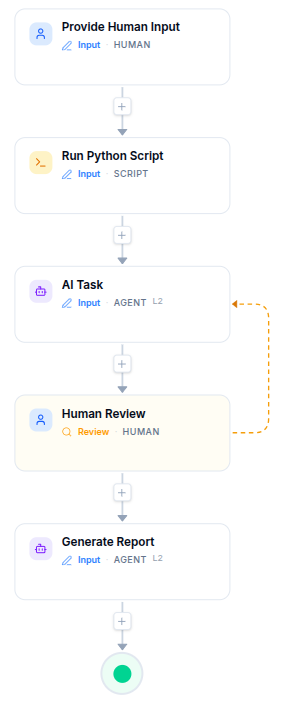
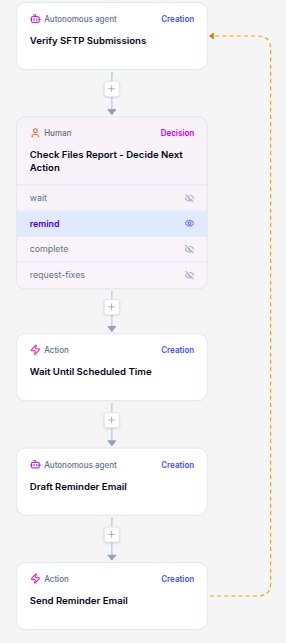
Merge pull request #882 from Appsilon/feat/update-website-and-readme-with-autonomy-levels
docs: update website and README with CM0-CM4 control mode taxonomy

Pull request: docs: update website and README with CM0-CM4 control mode taxonomy
## Summary
- Replace the outdated L1–L4 autonomy-level table in `docs/index.html`'s "How it works" section and in `README.md`'s "How It Works" section with the current CM0–CM4 Control Mode taxonomy (No agent, Assist, Cowork, Human review, Autonomous agent).
- Icons and colors match the workflow designer's "Add new step" popover (`workflow-diagram.tsx`) exactly: orange User for No agent, lime User+Bot for Assist, teal User+Bot for Cowork, indigo Bot+User for Human review, violet Bot for Autonomous agent.
- Simplified the website table to a single "What it means" column (was two split columns) and moved icons into their own narrow column so the Control Mode label text aligns consistently across rows.
- Removed the "Weekly Planning Session" card from the Community section on the website; the remaining "Join our Discord" card is restyled as a standalone centered card rather than half of a two-column grid.

## Test plan
- [x] Rendered `docs/index.html` locally with headless Chrome and visually verified the Control Mode table (icons, colors, alignment) and the single Discord community card, in both light and dark contexts.
- [x] Rendered the README's "How It Works" section through `marked` and visually verified the icon/color table on both light and dark backgrounds.
- [x] Confirmed no other page under `docs/` references the removed `community-grid` / Weekly Planning Session markup.

🤖 Generated with [Claude Code](https://claude.com/claude-code)
[…]

diff --git a/docs/index.html b/docs/index.html
@@ -36,6 +36,11 @@
       --script-dim: rgba(251,191,36,0.15);
       --agent: #7C3AED;
       --agent-dim: rgba(124,58,237,0.1);
+      --cm0: #F97316;
+      --cm1: #84CC16;
+      --cm2: #14B8A6;
+      --cm3: #6366F1;
+      --cm4: #8B5CF6;
     }
 
     html { scroll-behavior: smooth; }
@@ -152,8 +157,6 @@
     .btn--discord:hover { background: var(--discord-hover); }
     .btn--outline { background: transparent; color: var(--text-90); border-color: var(--text-30); }
     .btn--outline:hover { background: #F1F3F5; border-color: var(--text-50); }
-    .btn--meet { background: #1A73E8; color: #fff; border-color: transparent; }
-    .btn--meet:hover { background: #1557B0; }
 
     /* ── Section base ── */
     .section {
@@ -248,16 +251,21 @@
     .autonomy-table td {
       padding: 1rem;
       border-bottom: 1px solid var(--border);
-      vertical-align: top;
+      vertical-align: middle;
     }
     .autonomy-table tr:last-child td { border-bottom: none; }
+    .autonomy-table .cm-icon-cell {
+      width: 3.25rem;
+      padding-right: 0;
+    }
+    .autonomy-table .cm-icon { display: inline-flex; align-items: center; }
     .autonomy-table .level-name {
       font-weight: 600;
-      color: var(--accent);
+      color: var(--text-90);
       white-space: nowrap;
+      text-align: left;
     }
     .autonomy-table .level-desc { color: var(--text-80); }
-    .autonomy-table .level-human { color: var(--text-50); }
 
     .how-layout {
       display: grid;
@@ -310,12 +318,15 @@
         padding: 0.125rem 0;
         border-bottom: none;
       }
-      .autonomy-table .level-human::before {
-        content: "Human: ";
-        color: var(--text-40);
-        font-size: 0.75rem;
-        text-transform: uppercase;
-        letter-spacing: 0.05em;
+      .autonomy-table .cm-icon-cell {
+        display: inline-block;
+        width: auto;
+        vertical-align: middle;
+        margin-right: 0.5rem;
+      }
+      .autonomy-table .level-name {
+        display: inline-block;
+        vertical-align: middle;
       }
     }
 
@@ -364,51 +375,42 @@
     }
 
     /* ── Community ── */
-    .community-grid {
-      display: grid;
-      gap: 1.5rem;
-      margin-top: 2.5rem;
-    }
-    @media (min-width: 640px) {
-      .community-grid { grid-template-columns: 1fr 1fr; }
-    }
     .community-card {
-      padding: 2rem;
-      border-radius: 0.75rem;
-      background: var(--bg-card);
-      border: 1px solid var(--border);
+      margin-top: 2.5rem;
+      max-width: 34rem;
+      margin-left: auto;
+      margin-right: auto;
+      padding: 3rem 2.5rem;
+      border-radius: 1rem;
+      background: radial-gradient(circle at 50% 0%, rgba(88,101,242,0.09), rgba(88,101,242,0.02) 60%), var(--bg-card);
+      border: 1px solid rgba(88,101,242,0.25);
+      display: flex;
+      flex-direction: column;
+      align-items: center;
+      text-align: center;
+      transition: border-color 0.2s;
     }
+    .community-card:hover { border-color: rgba(88,101,242,0.45); }
     .community-card h3 {
-      font-size: 1.125rem;
-      font-weight: 600;
-      margin-bottom: 0.5rem;
+      font-size: 1.375rem;
+      font-weight: 700;
+      margin-bottom: 0.625rem;
     }
     .community-card p {
-      font-size: 0.875rem;
+      font-size: 0.9375rem;
       color: var(--text-60);
       line-height: 1.7;
-      margin-bottom: 1.25rem;
+      max-width: 28rem;
+      margin-bottom: 1.75rem;
     }
-    .community-card .schedule {
-      display: flex;
-      flex-wrap: wrap;
-      gap: 0.25rem 1rem;
-      margin-bottom: 1rem;
-      font-size: 0.875rem;
-      font-weight: 600;
-    }
-    .schedule .tz {
-      font-weight: 400;
-      color: var(--text-50);
-    }
-    .community-card--discord { border-color: rgba(88,101,242,0.3); }
-    .community-card--discord:hover { border-color: rgba(88,101,242,0.5); }
     .community-card-icon {
-      width: 2.25rem; height: 2.25rem;
-      margin-bottom: 1rem;
+      width: 3rem; height: 3rem;
+      margin-bottom: 1.25rem;
+      color: var(--discord);
+      background: rgba(88,101,242,0.1);
+      border-radius: 50%;
+      padding: 0.75rem;
     }
-    .community-card-icon--discord { color: var(--discord); }
-    .community-card-icon--session { color: var(--accent); }
     .community-byline {
       margin-top: 2rem;
       font-size: 0.8125rem;
@@ -629,37 +631,63 @@
           <h2 class="section-title">You define the process. The platform handles compliance.</h2>
           <p class="how-intro">
             For each step in a workflow, you decide who does the work - human, AI
-            agent, or both. Agents operate at one of four autonomy levels, and the
-            platform enforces the rules.
+            agent, or both. Every step is assigned a Control Mode, the same
+            picker your team uses in the workflow designer, and the platform
+            enforces the rules.
           </p>
           <table class="autonomy-table">
             <thead>
               <tr>
-                <th>Autonomy Level</th>
-                <th>What the agent does</th>
-                <th>Human involvement</th>
+                <th class="cm-icon-cell"></th>
+                <th>Control Mode</th>
+                <th>What it means</th>
               </tr>
             </thead>
             <tbody>
               <tr>
-                <td class="level-name">Observer</td>
-                <td class="level-desc">Watches and reports</td>
-                <td class="level-human">None - informational only</td>
+                <td class="cm-icon-cell">
+                  <span class="cm-icon">
+                    <svg width="20" height="20" viewBox="0 0 24 24"><g fill="none" stroke="var(--cm0)" stroke-width="1.9" stroke-linecap="round" stroke-linejoin="round"><path d="M20 21v-2a4 4 0 0 0-4-4H8a4 4 0 0 0-4 4v2"/><circle cx="12" cy="7" r="4"/></g></svg>
+                  </span>
+                </td>
+                <td class="level-name">No agent</td>
+                <td class="level-desc">Human, script, or automated action - no AI involved. Full manual control.</td>
               </tr>
               <tr>
-                <td class="level-name">Advisor</td>
-                <td class="level-desc">Suggests actions</td>
-                <td class="level-human">Human decides and acts</td>
+                <td class="cm-icon-cell">
+                  <span class="cm-icon">
+                    <svg width="46" height="21" viewBox="0 0 52 24"><g fill="none" stroke="var(--cm1)" stroke-width="1.9" stroke-linecap="round" stroke-linejoin="round"><path d="M20 21v-2a4 4 0 0 0-4-4H8a4 4 0 0 0-4 4v2"/><circle cx="12" cy="7" r="4"/></g><g transform="translate(28,0) scale(0.85)" fill="none" stroke="var(--cm1)" stroke-width="1.9" stroke-linecap="round" stroke-linejoin="round"><rect x="3" y="8" width="18" height="13" rx="2"/><circle cx="9" cy="14" r="1.25" fill="var(--cm1)" stroke="none"/><circle cx="15" cy="14" r="1.25" fill="var(--cm1)" stroke="none"/><line x1="9" y1="18" x2="15" y2="18"/><line x1="12" y1="8" x2="12" y2="4"/><circle cx="12" cy="3" r="1.25"/></g><g stroke="var(--cm1)" stroke-width="2.2" stroke-linecap="round" fill="none"><circle cx="45" cy="20" r="2.4"/><line x1="46.7" y1="21.7" x2="48.2" y2="23.2"/></g></svg>
+                  </span>
+                </td>
+                <td class="level-name">Assist</td>
+                <td class="level-desc">Human leads and does the work; AI reviews the result afterward.</td>
               </tr>
               <tr>
-                <td class="level-name">Drafter</td>
-                <td class="level-desc">Does work, submits for approval</td>
-                <td class="level-human">Human approves or sends back</td>
+                <td class="cm-icon-cell">
+                  <span class="cm-icon">
+                    <svg width="46" height="21" viewBox="0 0 52 24"><g fill="none" stroke="var(--cm2)" stroke-width="1.9" stroke-linecap="round" stroke-linejoin="round"><path d="M20 21v-2a4 4 0 0 0-4-4H8a4 4 0 0 0-4 4v2"/><circle cx="12" cy="7" r="4"/></g><g transform="translate(28,0)" fill="none" stroke="var(--cm2)" stroke-width="1.9" stroke-linecap="round" stroke-linejoin="round"><rect x="3" y="8" width="18" height="13" rx="2"/><circle cx="9" cy="14" r="1.25" fill="var(--cm2)" stroke="none"/><circle cx="15" cy="14" r="1.25" fill="var(--cm2)" stroke="none"/><line x1="9" y1="18" x2="15" y2="18"/><line x1="12" y1="8" x2="12" y2="4"/><circle cx="12" cy="3" r="1.25"/></g></svg>
+                  </span>
+                </td>
+                <td class="level-name">Cowork</td>
+                <td class="level-desc">Agent and human work together in real time, via chat or voice.</td>
               </tr>
               <tr>
-                <td class="level-name">Executor</td>
-                <td class="level-desc">Acts autonomously</td>
-                <td class="level-human">Human reviews after the fact</td>
+                <td class="cm-icon-cell">
+                  <span class="cm-icon">
+                    <svg width="46" height="21" viewBox="0 0 52 24"><g fill="none" stroke="var(--cm3)" stroke-width="1.9" stroke-linecap="round" stroke-linejoin="round"><rect x="3" y="8" width="18" height="13" rx="2"/><circle cx="9" cy="14" r="1.25" fill="var(--cm3)" stroke="none"/><circle cx="15" cy="14" r="1.25" fill="var(--cm3)" stroke="none"/><line x1="9" y1="18" x2="15" y2="18"/><line x1="12" y1="8" x2="12" y2="4"/><circle cx="12" cy="3" r="1.25"/></g><g transform="translate(28,0) scale(0.85)" fill="none" stroke="var(--cm3)" stroke-width="1.9" stroke-linecap="round" stroke-linejoin="round"><path d="M20 21v-2a4 4 0 0 0-4-4H8a4 4 0 0 0-4 4v2"/><circle cx="12" cy="7" r="4"/></g><g stroke="var(--cm3)" stroke-width="2.2" stroke-linecap="round" fill="none"><circle cx="45" cy="20" r="2.4"/><line x1="46.7" y1="21.7" x2="48.2" y2="23.2"/></g></svg>
+                  </span>
+                </td>
+                <td class="level-name">Human review</td>
+                <td class="level-desc">Agent completes the step; a human reviews and approves before the workflow proceeds.</td>
+              </tr>
+              <tr>
+                <td class="cm-icon-cell">
+                  <span class="cm-icon">
+                    <svg width="20" height="20" viewBox="0 0 24 24"><g fill="none" stroke="var(--cm4)" stroke-width="1.9" stroke-linecap="round" stroke-linejoin="round"><rect x="3" y="8" width="18" height="13" rx="2"/><circle cx="9" cy="14" r="1.25" fill="var(--cm4)" stroke="none"/><circle cx="15" cy="14" r="1.25" fill="var(--cm4)" stroke="none"/><line x1="9" y1="18" x2="15" y2="18"/><line x1="12" y1="8" x2="12" y2="4"/><circle cx="12" cy="3" r="1.25"/></g></svg>
+                  </span>
+                </td>
+                <td class="level-name">Autonomous agent</td>
+                <td class="level-desc">Agent completes the step and the workflow advances on its own; a human can review after the fact via the audit trail.</td>
               </tr>
             </tbody>
           </table>
@@ -765,39 +793,19 @@
       <p class="section-subtitle">
         Follow the development, ask questions, and shape the direction of the project.
       </p>
-      <div class="community-grid">
-        <div class="community-card community-card--discord">
-          <svg class="community-card-icon community-card-icon--discord" viewBox="0 -28.5 256 256" xmlns="http://www.w3.org/2000/svg" aria-hidden="true">
-            <path d="M216.856 16.597A208.502 208.502 0 0 0 164.042 0c-2.275 4.113-4.933 9.645-6.766 14.046-19.692-2.961-39.203-2.961-58.533 0-1.832-4.4-4.55-9.933-6.846-14.046a207.809 207.809 0 0 0-52.855 16.638C5.618 67.147-3.443 116.4 1.087 164.956c22.169 16.555 43.653 26.612 64.775 33.193a161.094 161.094 0 0 0 13.96-22.730 136.208 136.208 0 0 1-21.511-10.366c1.802-1.32 3.564-2.72 5.265-4.18 41.397 19.317 86.378 19.317 127.313 0 1.721 1.46 3.483 2.86 5.265 4.18a136.154 136.154 0 0 1-21.552 10.386 160.794 160.794 0 0 0 13.96 22.710c21.142-6.58 42.646-16.637 64.815-33.213 5.316-56.288-9.08-105.09-38.056-148.36ZM85.474 135.095c-12.645 0-23.015-11.805-23.015-26.18s10.149-26.2 23.015-26.2c12.867 0 23.236 11.824 23.015 26.2.02 14.375-10.148 26.18-23.015 26.18Zm85.051 0c-12.645 0-23.015-11.805-23.015-26.18s10.148-26.2 23.015-26.2c12.866 0 23.236 11.824 23.015 26.2 0 14.375-10.148 26.18-23.015 26.18Z" fill="currentColor"/>
-          </svg>
-          <h3>Join our Discord</h3>
-          <p>
-            Ask questions, share ideas, follow progress, or just see how things
-            evolve. This is where the conversation happens.
-          </p>
-          <a href="https://discord.gg/TVx4VkG3C2" target="_blank" rel="noopener noreferrer" class="btn btn--discord">
-            <svg viewBox="0 -28.5 256 256" xmlns="http://www.w3.org/2000/svg" aria-hidden="true"><path d="M216.856 16.597A208.502 208.502 0 0 0 164.042 0c-2.275 4.113-4.933 9.645-6.766 14.046-19.692-2.961-39.203-2.961-58.533 0-1.832-4.4-4.55-9.933-6.846-14.046a207.809 207.809 0 0 0-52.855 16.638C5.618 67.147-3.443 116.4 1.087 164.956c22.169 16.555 43.653 26.612 64.775 33.193a161.094 161.094 0 0 0 13.96-22.730 136.208 136.208 0 0 1-21.511-10.366c1.802-1.32 3.564-2.72 5.265-4.18 41.397 19.317 86.378 19.317 127.313 0 1.721 1.46 3.483 2.86 5.265 4.18a136.154 136.154 0 0 1-21.552 10.386 160.794 160.794 0 0 0 13.96 22.710c21.142-6.58 42.646-16.637 64.815-33.213 5.316-56.288-9.08-105.09-38.056-148.36ZM85.474 135.095c-12.645 0-23.015-11.805-23.015-26.18s10.149-26.2 23.015-26.2c12.867 0 23.236 11.824 23.015 26.2.02 14.375-10.148 26.18-23.015 26.18Zm85.051 0c-12.645 0-23.015-11.805-23.015-26.18s10.148-26.2 23.015-26.2c12.866 0 23.236 11.824 23.015 26.2 0 14.375-10.148 26.18-23.015 26.18Z" fill="currentColor"/></svg>
-            Join Discord Server
-          </a>
-        </div>
-        <div class="community-card">
-          <img class="community-card-icon" src="images/google-meet-icon.png" alt="Google Meet" />
-          <h3>Weekly Planning Session</h3>
-          <div class="schedule">
-            <span>Fridays</span>
-            <span>3:00 PM <span class="tz">CET</span></span>
-            <span>2:00 PM <span class="tz">GMT</span></span>
-            <span>9:00 AM <span class="tz">EST</span></span>
-          </div>
-          <p>
-            Live demo, architecture discussion, and open Q&amp;A. Every Friday on
-            Google Meet. Drop in, listen, or ask anything.
-          </p>
-          <a href="https://meet.google.com/itu-dwce-ktw" target="_blank" rel="noopener noreferrer" class="btn btn--meet">
-            <svg viewBox="0 0 24 24" fill="none" aria-hidden="true" width="18" height="18"><rect width="24" height="24" rx="4" fill="#1A73E8"/><path d="M6 8.5C6 7.67 6.67 7 7.5 7h5C13.33 7 14 7.67 14 8.5v7c0 .83-.67 1.5-1.5 1.5h-5C6.67 17 6 16.33 6 15.5v-7Z" fill="#fff"/><path d="M14 10.25l3.5-2.25v7.5L14 13.25v-3Z" fill="#fff"/></svg>
-            Join on Google Meet
-          </a>
-        </div>
+      <div class="community-card">
+        <svg class="community-card-icon" viewBox="0 -28.5 256 256" xmlns="http://www.w3.org/2000/svg" aria-hidden="true">
+          <path d="M216.856 16.597A208.502 208.502 0 0 0 164.042 0c-2.275 4.113-4.933 9.645-6.766 14.046-19.692-2.961-39.203-2.961-58.533 0-1.832-4.4-4.55-9.933-6.846-14.046a207.809 207.809 0 0 0-52.855 16.638C5.618 67.147-3.443 116.4 1.087 164.956c22.169 16.555 43.653 26.612 64.775 33.193a161.094 161.094 0 0 0 13.96-22.730 136.208 136.208 0 0 1-21.511-10.366c1.802-1.32 3.564-2.72 5.265-4.18 41.397 19.317 86.378 19.317 127.313 0 1.721 1.46 3.483 2.86 5.265 4.18a136.154 136.154 0 0 1-21.552 10.386 160.794 160.794 0 0 0 13.96 22.710c21.142-6.58 42.646-16.637 64.815-33.213 5.316-56.288-9.08-105.09-38.056-148.36ZM85.474 135.095c-12.645 0-23.015-11.805-23.015-26.18s10.149-26.2 23.015-26.2c12.867 0 23.236 11.824 23.015 26.2.02 14.375-10.148 26.18-23.015 26.18Zm85.051 0c-12.645 0-23.015-11.805-23.015-26.18s10.148-26.2 23.015-26.2c12.866 0 23.236 11.824 23.015 26.2 0 14.375-10.148 26.18-23.015 26.18Z" fill="currentColor"/>
+        </svg>
+        <h3>Join our Discord</h3>
+        <p>
+          Ask questions, share ideas, follow progress, or just see how things
+          evolve. This is where the conversation happens.
+        </p>
+        <a href="https://discord.gg/TVx4VkG3C2" target="_blank" rel="noopener noreferrer" class="btn btn--discord">
+          <svg viewBox="0 -28.5 256 256" xmlns="http://www.w3.org/2000/svg" aria-hidden="true"><path d="M216.856 16.597A208.502 208.502 0 0 0 164.042 0c-2.275 4.113-4.933 9.645-6.766 14.046-19.692-2.961-39.203-2.961-58.533 0-1.832-4.4-4.55-9.933-6.846-14.046a207.809 207.809 0 0 0-52.855 16.638C5.618 67.147-3.443 116.4 1.087 164.956c22.169 16.555 43.653 26.612 64.775 33.193a161.094 161.094 0 0 0 13.96-22.730 136.208 136.208 0 0 1-21.511-10.366c1.802-1.32 3.564-2.72 5.265-4.18 41.397 19.317 86.378 19.317 127.313 0 1.721 1.46 3.483 2.86 5.265 4.18a136.154 136.154 0 0 1-21.552 10.386 160.794 160.794 0 0 0 13.96 22.710c21.142-6.58 42.646-16.637 64.815-33.213 5.316-56.288-9.08-105.09-38.056-148.36ZM85.474 135.095c-12.645 0-23.015-11.805-23.015-26.18s10.149-26.2 23.015-26.2c12.867 0 23.236 11.824 23.015 26.2.02 14.375-10.148 26.18-23.015 26.18Zm85.051 0c-12.645 0-23.015-11.805-23.015-26.18s10.148-26.2 23.015-26.2c12.866 0 23.236 11.824 23.015 26.2 0 14.375-10.148 26.18-23.015 26.18Z" fill="currentColor"/></svg>
+          Join Discord Server
+        </a>
       </div>
       <p class="community-byline">
         Built by <a href="https://appsilon.com" target="_blank" rel="noopener noreferrer">Appsilon</a> - building open-source tools for life sciences since 2013.

diff --git a/README.md b/README.md
@@ -30,16 +30,21 @@ Mediforce is that infrastructure. Open-source, built for pharma, designed so you
 
 Processes are made of steps. Each step can be performed by a human, an AI agent, or both — with clear rules about who decides what.
 
-### Configurable Autonomy
+### Configurable Control Modes
 
-| Level | Agent Role | Human Involvement |
-|-------|-----------|-------------------|
-| **L1 — Observer** | Watches and surfaces insights | Informational only |
-| **L2 — Advisor** | Suggests actions | Human decides and acts |
-| **L3 — Drafter** | Does the work, submits for review | Human approves or sends back |
-| **L4 — Executor** | Acts autonomously | Human reviews periodically |
+Every step is assigned a Control Mode (CM0–CM4) — the same picker used in the workflow designer's step-type popover:
 
-At any level, an agent can signal uncertainty and escalate to a human. This isn't a failure mode — it's how the system maintains safety in production.
+| Mode | What it means |
+|------|----------------|
+| **No agent** `CM0` | Human, script, or automated action - no AI involved. Full manual control. |
+| **Assist** `CM1` _(coming soon)_ | Human leads and does the work; AI reviews the result afterward. |
+| **Cowork** `CM2` | Agent and human work together in real time, via chat or voice. |
+| **Human review** `CM3` | Agent completes the step; a human reviews and approves before the workflow proceeds. |
+| **Autonomous agent** `CM4` | Agent completes the step and the workflow advances on its own; a human can review after the fact via the audit trail. |
+
+`executor` and `autonomyLevel` remain the underlying schema fields (unchanged); Control Mode is a UI-only classification layered on top — see [`docs/design/AUTONOMY-LEVELS-REFACTOR.md`](docs/design/AUTONOMY-LEVELS-REFACTOR.md).
+
+At any mode, an agent can signal uncertainty and escalate to a human. This isn't a failure mode — it's how the system maintains safety in production.
 
 ### What Agents Actually Do
 
@@ -69,14 +74,6 @@ The core decision point. Reviewers see full context from the agent's work and su
 
 <div align="center">
 <img src="docs/features/task-approve-flow.gif" alt="Task approval flow with agent context" width="720" />
-</div>
-
-### Autonomy Levels on Every Step
-
-Each step displays its autonomy configuration (L1–L4) so operators always know what's agent-driven and what requires human action.
-
-<div align="center">
-<img src="docs/features/run-detail-autonomy-badges.gif" alt="Process run with autonomy level badges" width="720" />
 </div>
 
 ## Why Open Source

diff --git a/CHANGELOG.md b/CHANGELOG.md
@@ -21,6 +21,9 @@ Every non-trivial PR adds a bullet under `## [Unreleased]`. Trivial edits (typos
 
 - Agent steps now record `tokenUsage.peakInputTokens` — the largest single-turn prompt the model held during a run — and the executor logs a `[saturation]` line (`peak / contextLength = N%`) per step. Unlike the summed `inputTokens` (kept for cost), this is the real context-occupancy signal for sizing agent batches (e.g. how many issues to hand triage at once). Populated from OpenCode `step_finish` per-turn token counts.
 
+### Changed
+- Website "How it works" and README "How It Works" sections now describe the current CM0–CM4 Control Mode taxonomy (No agent, Assist, Cowork, Human review, Autonomous agent) instead of the retired L1–L4 autonomy-level labels, with icons and colors matching the workflow designer's step-type picker [#882](https://github.com/Appsilon/mediforce/pull/882).
+
 ### Fixed
 - `mediforce-fullstack` agent steps lost their result contract: the prompts told the model to write `result.json` to `${output_dir}`, but the platform maps `{output_dir}` to the git worktree (`/workspace`), while the result contract must go to the separate Result Contract Directory (`/output`). The model wrote `/workspace/result.json` (committed to the run branch), the engine couldn't find the contract and fell back to raw text, so every JSON-returning step (`triage`, `draft-plan`, `self-review`, `revise`, …) silently produced no structured output — e.g. `triage` classified an issue but `apply-verdicts` received zero verdicts and labelled nothing. All six agent prompts now write to the literal `/output/result.json`, matching the script steps and the platform's own contract-directory instruction. Verified on staging: `triage` verdicts now reach `apply-verdicts` and the issue is labelled.
 - Pre-assigned human tasks (`assignedTo`) whose resolved value is an email are now resolved to the user's uid via the user directory before persisting as `assignedUserId`, so the task surfaces in the approver's queue (queues match on uid). Previously the email was stored verbatim, matched no user, and the task vanished from every queue — this stranded `mediforce-fullstack` approval gates whose `FULLSTACK_REVIEWER_MAP` used email values, as the README documented. An email that matches no user now hard-fails the run instead of silently stranding.